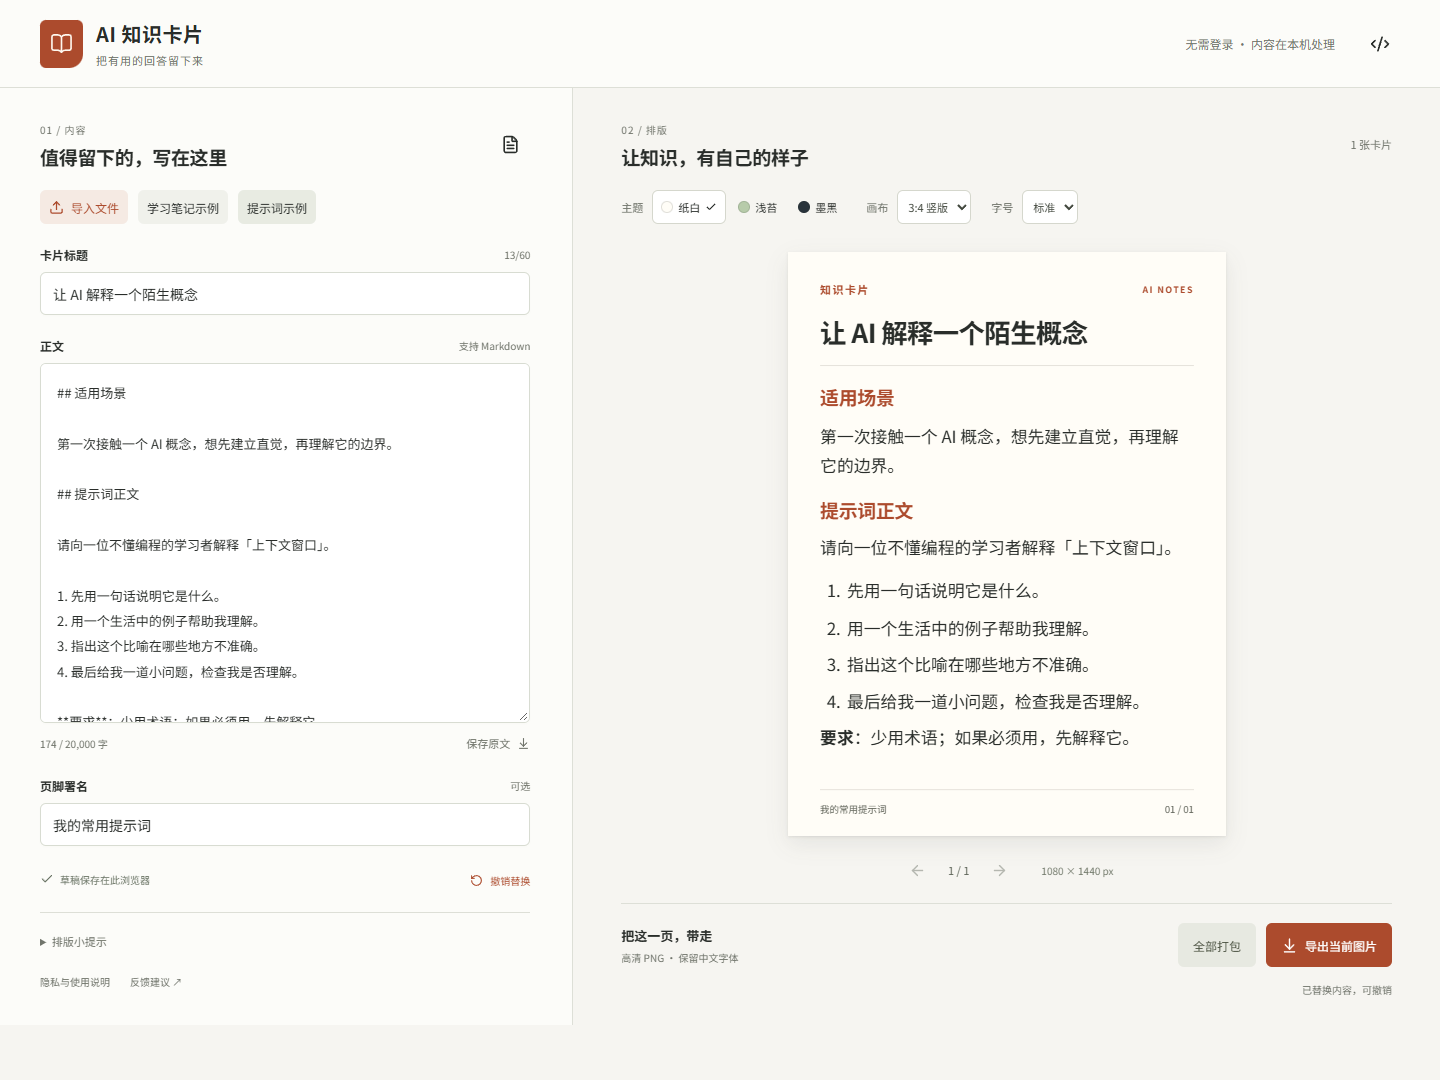
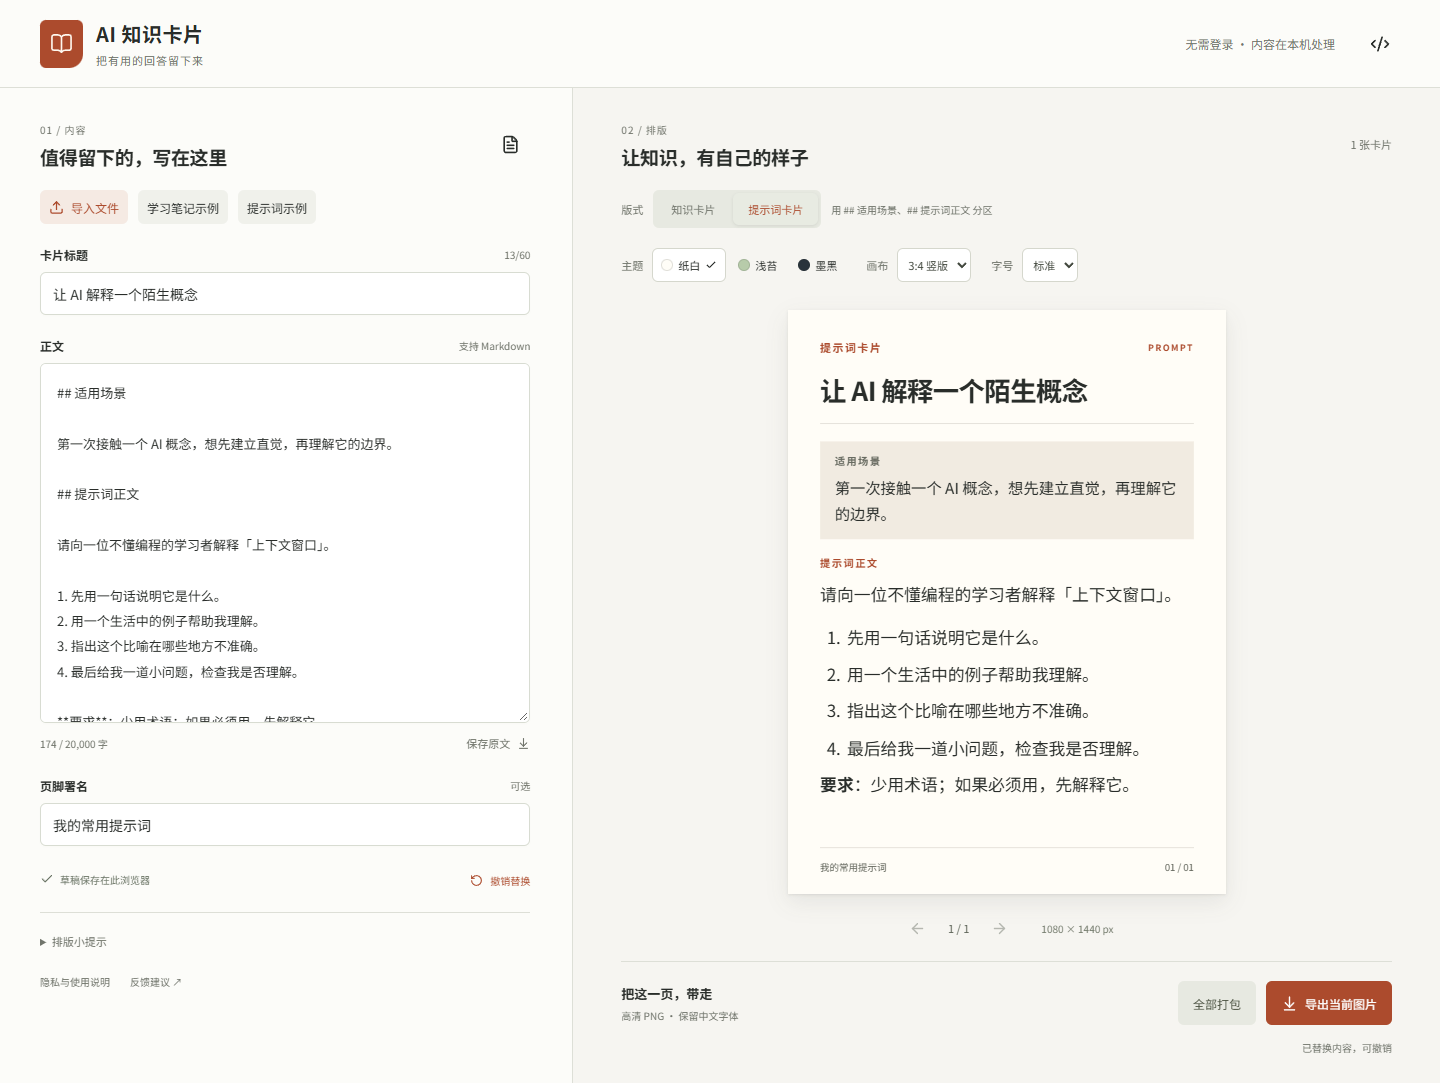
feat: add prompt card layout separating context and prompt

diff --git a/src/App.tsx b/src/App.tsx
@@ -45,10 +45,10 @@ export function App() {
       try {
         if (draft.content.length > MAX_CONTENT) throw new Error('正文最多 20,000 字，请分成几份笔记。当前输入仍保留在编辑框中。');
         if (!draft.content.trim()) { if (id === generation.current) setPages([]); return; }
-        await waitForFonts(draft.title + draft.content + draft.source + '知识卡片 AI NOTES 0123456789 /');
+        await waitForFonts(draft.title + draft.content + draft.source + '知识卡片 提示词卡片 PROMPT AI NOTES 0123456789 /');
         if (id !== generation.current || !measure.current) return;
         const body = measure.current.querySelector<HTMLElement>('[data-card-body]')!;
-        const next = paginate(markdownBlocks(draft.content), body);
+        const next = paginate(markdownBlocks(draft.content, draft.layout), body);
         if (id === generation.current) { setPages(next); setPage(current => Math.min(current, Math.max(0, next.length - 1))); }
       } catch (reason) {
         if (id === generation.current) { setError(reason instanceof Error ? reason.message : '排版失败，请重试。'); setPages([]); }
@@ -92,7 +92,7 @@ export function App() {
     setBusy('正在准备字体'); setNotice('');
     const host = document.createElement('div'); host.className = styles.exportHost; document.body.append(host);
     try {
-      const text = draft.title + draft.content + draft.source + '知识卡片 AI NOTES 0123456789 /';
+      const text = draft.title + draft.content + draft.source + '知识卡片 提示词卡片 PROMPT AI NOTES 0123456789 /';
       const fontEmbedCSS = await embedFonts(text);
       const indices = all ? pages.map((_, i) => i) : [page];
       const files: Record<string, Uint8Array> = {};
@@ -153,6 +153,7 @@ export function App() {
       <section className={`${styles.previewPanel} ${mobileTab !== 'preview' ? styles.mobileHidden : ''}`} aria-labelledby="preview-title">
         <div className={styles.previewHead}><div><span className={styles.step}>02 / 排版</span><h2 id="preview-title">让知识，有自己的样子</h2></div><span className={styles.live}>{pending ? '正在排版' : `${pages.length} 张卡片`}</span></div>
         <fieldset className={styles.options} disabled={!!busy}>
+          <div className={styles.layoutRow}><span>版式</span><div className={styles.layoutSwitch}><button aria-pressed={draft.layout === 'note'} onClick={() => patch({ layout: 'note' })}>知识卡片</button><button aria-pressed={draft.layout === 'prompt'} onClick={() => patch({ layout: 'prompt' })}>提示词卡片</button></div>{draft.layout === 'prompt' && <span className={styles.layoutHint}>用 ## 适用场景、## 提示词正文 分区</span>}</div>
           <div className={styles.optionGroup}><span>主题</span><div className={styles.themeList}>{([['paper', '纸白'], ['sage', '浅苔'], ['ink', '墨黑']] as const).map(([key, name]) => <button key={key} aria-label={`${name}主题`} aria-pressed={draft.theme === key} className={`${styles.themeButton} ${styles[key]}`} onClick={() => patch({ theme: key })}><span />{name}{draft.theme === key && <Check size={12} />}</button>)}</div></div>
           <div className={styles.optionGroup}><label htmlFor="ratio">画布</label><select id="ratio" value={draft.ratio} onChange={e => patch({ ratio: e.target.value as Draft['ratio'] })}><option value="portrait">3:4 竖版</option><option value="square">1:1 方形</option></select></div>
           <div className={styles.optionGroup}><label htmlFor="font-size">字号</label><select id="font-size" value={draft.fontSize} onChange={e => patch({ fontSize: Number(e.target.value) })}><option value={21}>紧凑</option><option value={23}>标准</option><option value={25}>大字</option></select></div>

diff --git a/tests/cards.spec.ts b/tests/cards.spec.ts
@@ -68,6 +68,7 @@ test('375px 移动端可编辑、翻页和导出', async ({ page }, testInfo) =>
 });
 test('素材截图使用同一份提示词示例', async ({ page }, testInfo) => {
   await page.goto('/'); await ready(page); await page.getByRole('button', { name: '提示词示例', exact: true }).click(); await ready(page);
+  await page.getByRole('button', { name: '提示词卡片', exact: true }).click(); await ready(page);
   await page.screenshot({ path: testInfo.outputPath('desktop.png'), fullPage: true });
   const promise = page.waitForEvent('download'); await page.getByRole('button', { name: '导出当前图片', exact: true }).click(); const d = await promise;
   await d.saveAs(testInfo.outputPath('same-example.png'));
@@ -78,7 +79,7 @@ test('素材截图使用同一份提示词示例', async ({ page }, testInfo) =>
   }
 });
 
-test('手动分页边界、长标题、大字号和空表格有明确结果', async ({ page }) => {
+test('手动分页边界、长标题、大字号和组合字符', async ({ page }) => {
   await page.goto('/'); await ready(page);
   await page.getByLabel('卡片标题').fill('边界验证');
   await page.getByLabel('正文', { exact: true }).fill('---\n\n第一页\n\n---\n\n---\n\n第二页\n\n---');
@@ -90,4 +91,27 @@ test('手动分页边界、长标题、大字号和空表格有明确结果', as
   await ready(page); await noOverflow(page);
   await page.getByLabel('正文', { exact: true }).fill('🌱家庭👨👩👧👦一起学习 é '.repeat(30));
   await ready(page); await noOverflow(page);
+});
+
+test('提示词版式同文切换、长场景分页及 PNG 导出', async ({ page }, testInfo) => {
+  await page.goto('/'); await ready(page);
+  await page.getByRole('button', { name: '提示词示例', exact: true }).click(); await ready(page);
+  const before = await page.getByLabel('正文', { exact: true }).inputValue();
+  await page.getByRole('button', { name: '提示词卡片', exact: true }).click(); await ready(page);
+  await expect(page.getByLabel('正文', { exact: true })).toHaveValue(before);
+  await expect(card(page).locator('[data-part=context]')).toContainText('第一次接触一个 AI 概念');
+  await expect(card(page).locator('[data-part=prompt-label]')).toHaveText('提示词正文'); await noOverflow(page);
+  const promise = page.waitForEvent('download'); await page.getByRole('button', { name: '导出当前图片', exact: true }).click(); const d = await promise;
+  await d.saveAs(testInfo.outputPath('prompt.png')); await page.getByRole('button', { name: '知识卡片', exact: true }).click(); await ready(page);
+  await expect(card(page).locator('[data-part=context]')).toHaveCount(0); await expect(page.getByLabel('正文', { exact: true })).toHaveValue(before);
+  await page.getByRole('button', { name: '提示词卡片', exact: true }).click();
+  const longContext = '这是适用场景的长段落，不应当丢失。'.repeat(60);
+  await page.getByLabel('正文', { exact: true }).fill(`## 适用场景\n\n${longContext}\n\n## 提示词正文\n\n请帮我理解这段知识。`); await ready(page);
+  let text = '';
+  while (true) {
+    await noOverflow(page); text += await card(page).locator('[data-card-body]').innerText();
+    if (await page.getByRole('button', { name: '下一张', exact: true }).isDisabled()) break;
+    await page.getByRole('button', { name: '下一张', exact: true }).click();
+  }
+  expect(text.replace(/\s/g, '')).toContain(longContext); expect(text).toContain('请帮我理解这段知识');
 });

diff --git a/src/App.module.css b/src/App.module.css
@@ -29,6 +29,8 @@
 .info { padding:16px;background:#f0f1eb;border-radius:6px;font-size:11px;line-height:1.9;margin-top:10px; }.info .iconButton { float:right;height:24px;min-height:24px;width:24px; }.info p:last-child { margin-bottom:0; }
 .previewPanel { min-width:0;padding:30px 32px 18px;display:flex;flex-direction:column; }.live { font-size:11px;color:var(--muted);white-space:nowrap; }
 .options { display:flex;gap:20px;align-items:center;margin:20px 0 0;flex-wrap:wrap; }.optionGroup { display:flex;align-items:center;gap:9px; }.optionGroup>span,.optionGroup>label { font-size:11px;color:var(--muted); }.themeList { display:flex;gap:3px; }.themeButton { font-size:11px;gap:5px;padding:0 8px;min-height:34px;border:1px solid transparent; }.themeButton[aria-pressed=true] { background:#fff;border-color:#d5d7cd; }.themeButton>span { width:12px;height:12px;border-radius:50%;box-shadow:inset 0 0 0 1px #292d2a26; }.paper>span { background:#fffdf7; }.sage>span { background:#b7cbaa; }.ink>span { background:#29333b; }
+.layoutRow { flex-basis:100%;display:flex;align-items:center;gap:10px;flex-wrap:wrap;font-size:11px;color:var(--muted); }
+.layoutSwitch { display:flex;background:#e7e9e1;padding:3px;border-radius:6px;gap:3px; }.layoutSwitch button { min-height:32px;font-size:11px;padding:0 15px; }.layoutSwitch button[aria-pressed=true] { background:#fff;color:var(--accent);box-shadow:0 1px 3px #20251b1a; }.layoutHint { font-size:10px; }
 .optionGroup select { border:1px solid #d5d7cd;background:#fff;color:#41473d;border-radius:6px;min-height:34px;padding:0 6px;font-size:11px; }
 .stage { min-height:500px;flex:1;display:flex;align-items:flex-start;justify-content:center;padding:28px 0 14px; }
 .cardFrame { position:relative;flex:none;box-shadow:0 8px 22px #3e443418,0 1px 3px #3e44341c; }.scaledCard { transform-origin:top left; }.updating { position:absolute;inset:0;background:#ffffffb0;display:grid;place-items:center;font-size:13px;color:#5e6459; }

diff --git a/src/markdown.ts b/src/markdown.ts
@@ -2,7 +2,7 @@ import { marked } from 'marked';
 import DOMPurify from 'dompurify';
 
 // Rendering content never loads external images, embeds, styles or scripts.
-export function markdownBlocks(markdown: string): HTMLElement[] {
+export function markdownBlocks(markdown: string, layout: 'note' | 'prompt' = 'note'): HTMLElement[] {
   const renderer = new marked.Renderer();
   renderer.image = ({ text }) => `[图片：${text.replace(/[<>&]/g, '') || '未命名'}]`;
   const html = marked.parse(markdown, { async: false, breaks: true, gfm: true, renderer });
@@ -38,7 +38,21 @@ export function markdownBlocks(markdown: string): HTMLElement[] {
   if (!blocks.length && root.textContent?.trim()) {
     const p = document.createElement('p'); p.textContent = root.textContent; blocks.push(p);
   }
-  return blocks;
+  if (layout !== 'prompt') return blocks;
+  const sections: HTMLElement[] = [];
+  let context: HTMLElement | null = null;
+  for (const block of blocks) {
+    if (block.matches('h1,h2,h3,h4,h5,h6')) {
+      context = null;
+      if (/^(适用场景|使用场景)$/.test(block.textContent?.trim() || '')) {
+        context = document.createElement('div'); context.dataset.part = 'context';
+        sections.push(context);
+      } else if (block.textContent?.trim() === '提示词正文') block.dataset.part = 'prompt-label';
+    }
+    if (block.tagName === 'HR') context = null;
+    if (context) context.append(block); else sections.push(block);
+  }
+  return sections;
 }
 
 // Split at grapheme boundaries with DOM Ranges, preserving inline emphasis/code.

diff --git a/src/model.ts b/src/model.ts
@@ -1,6 +1,7 @@
 export type Theme = 'paper' | 'sage' | 'ink';
 export type Ratio = 'portrait' | 'square';
 export interface Draft {
+  layout: 'note' | 'prompt';
   title: string;
   content: string;
   source: string;
@@ -11,6 +12,7 @@ export interface Draft {
 export const MAX_CONTENT = 20000;
 export const STORAGE_KEY = 'ai-note-cards:draft:v1';
 export const sample: Draft = {
+  layout: 'note',
   title: '把 AI 回答，变成自己的知识',
   content: '## 先理解，再收藏\n\n收藏一段回答，不等于掌握一个知识。试着用自己的话，把它讲给刚接触这个概念的人听。\n\n## 一张卡片，留下三件事\n\n1. **它是什么**：用一句话说清核心意思。\n2. **何时有用**：记下一个与你有关的场景。\n3. **怎么使用**：留下一个能立刻尝试的步骤。\n\n> 下次复习时，先遮住答案，再问自己：我能讲明白吗？',
   source: '我的 AI 学习笔记',
@@ -27,6 +29,7 @@ export function readDraft(): Draft {
     const value = JSON.parse(localStorage.getItem(STORAGE_KEY) || 'null');
     if (!value || typeof value.content !== 'string' || value.content.length > MAX_CONTENT) return sample;
     return {
+      layout: value.layout === 'prompt' ? 'prompt' : 'note',
       title: typeof value.title === 'string' ? value.title.slice(0, 60) : sample.title,
       content: value.content,
       source: typeof value.source === 'string' ? value.source.slice(0, 60) : '',

diff --git a/src/Card.tsx b/src/Card.tsx
@@ -3,9 +3,9 @@ import type { Draft } from './model';
 import styles from './Card.module.css';
 
 export const Card = forwardRef<HTMLElement, { draft: Draft; html: string; page: number; total: number }>(function Card({ draft, html, page, total }, ref) {
-  return <article ref={ref} className={`${styles.card} ${styles[draft.theme]} ${styles[draft.ratio]}`} style={{ '--body-size': `${draft.fontSize}px` } as CSSProperties} data-card>
+  return <article ref={ref} className={`${styles.card} ${styles[draft.theme]} ${styles[draft.ratio]} ${draft.layout === 'prompt' ? styles.prompt : ''}`} style={{ '--body-size': `${draft.fontSize}px` } as CSSProperties} data-card data-layout={draft.layout}>
     <header className={styles.header}>
-      <span className={styles.kicker}>知识卡片<span>AI NOTES</span></span>
+      <span className={styles.kicker}>{draft.layout === 'prompt' ? '提示词卡片' : '知识卡片'}<span>{draft.layout === 'prompt' ? 'PROMPT' : 'AI NOTES'}</span></span>
       <h1>{draft.title.trim() || '未命名笔记'}</h1>
     </header>
     <div className={styles.body} data-card-body dangerouslySetInnerHTML={{ __html: html }} />

diff --git a/src/Card.module.css b/src/Card.module.css
@@ -28,3 +28,7 @@
 .footer { flex:none;display:flex;align-items:center;justify-content:space-between;gap:20px;margin-top:24px;padding-top:16px;border-top:1px solid var(--rule);font-size:13px;line-height:1.5;color:var(--muted); }
 .footer > :first-child { overflow-wrap:anywhere;max-width:85%; }
 .footer > :last-child { white-space:nowrap;font-variant-numeric:tabular-nums; }
+.prompt .body [data-part=context] { background:var(--wash);padding:16px 20px;margin:0 0 22px;font-size:.91em;line-height:1.7; }
+.prompt .body [data-part=context] h1,.prompt .body [data-part=context] h2,.prompt .body [data-part=context] h3 { font-size:14px;letter-spacing:2px;margin:0 0 9px;color:var(--muted); }
+.prompt .body [data-part=context] > :last-child { margin-bottom:0; }
+.prompt .body [data-part=prompt-label] { font-size:14px;letter-spacing:2px;margin:0 0 12px;color:var(--accent); }

diff --git a/README.md b/README.md
@@ -22,6 +22,12 @@
 - 自动保存当前浏览器的草稿，保存 Markdown 原文，新建和替换示例可撤销。
 - 桌面双栏工作台；手机编辑 / 预览切换。
 
+## 本次新增：提示词卡片版式
+
+在「版式」中选择「提示词卡片」，`## 适用场景` 下的内容会显示为独立说明区，`## 提示词正文` 以下为提示词主体。点「提示词示例」可以加载演示内容，再切换两种版式对比。切换只改变排版，不会改写原文。没有这些小标题的内容仍正常呈现。
+
+它沿用基础版的主题、分页、字体嵌入和导出。基础版已经可以收藏提示词文本；本次新增的是专用版式和两类内容的视觉区分。
+
 ## 本地运行
 
 建议 Node.js 22 LTS 或更新版本（本地也在 Node 20.20.2 验证）。
@@ -98,6 +104,17 @@ npx playwright install chromium
 
 ## 版本与许可
 
-基础演示版使用标签 `demo-v0.1-base`。后续演示改动将保留独立提交与标签，便于对照和恢复。
+基础演示版使用标签 `demo-v0.1-base`；新增提示词版式使用 `demo-v0.2-prompt`。两份版本来自真实开发提交。
+
+为了安全地对照旧版，建议在另一个目录运行：
+
+```sh
+git worktree add ../ai-note-cards-base demo-v0.1-base
+cd ../ai-note-cards-base
+npm ci
+npm run dev -- --port 4175
+```
+
+或用 `git diff demo-v0.1-base demo-v0.2-prompt -- src` 查看实际改动。不要在有未保存修改的工作区使用强制重置。
 
 原创代码采用 [MIT](LICENSE)。依赖和字体保留各自许可证，见 [THIRD_PARTY_NOTICES.md](THIRD_PARTY_NOTICES.md) 与 `public/licenses/`。

diff --git a/VALIDATION.md b/VALIDATION.md
@@ -11,3 +11,10 @@
 - 所有运行时依赖许可证已生成并随静态站点发布。
 
 尚未验证：真机 iOS / Android、Safari / Firefox、长期离线缓存。无离线可安装应用的承诺。自动化手机视口测试不等同于真机测试。
+
+## 提示词版式 / 2026-10-12
+
+- 正式构建通过；正式构建预览下 7 项测试通过（15.6 秒）。
+- 同一份示例在知识卡片与提示词卡片间切换，正文保持完全相同。
+- 适用场景与提示词正文分区、长场景跨页文字完整性、PNG 导出已验证。
+- 基础版全部 6 项测试同时再次通过，两个版本的真实截图与导出保存在源码仓库之外。
